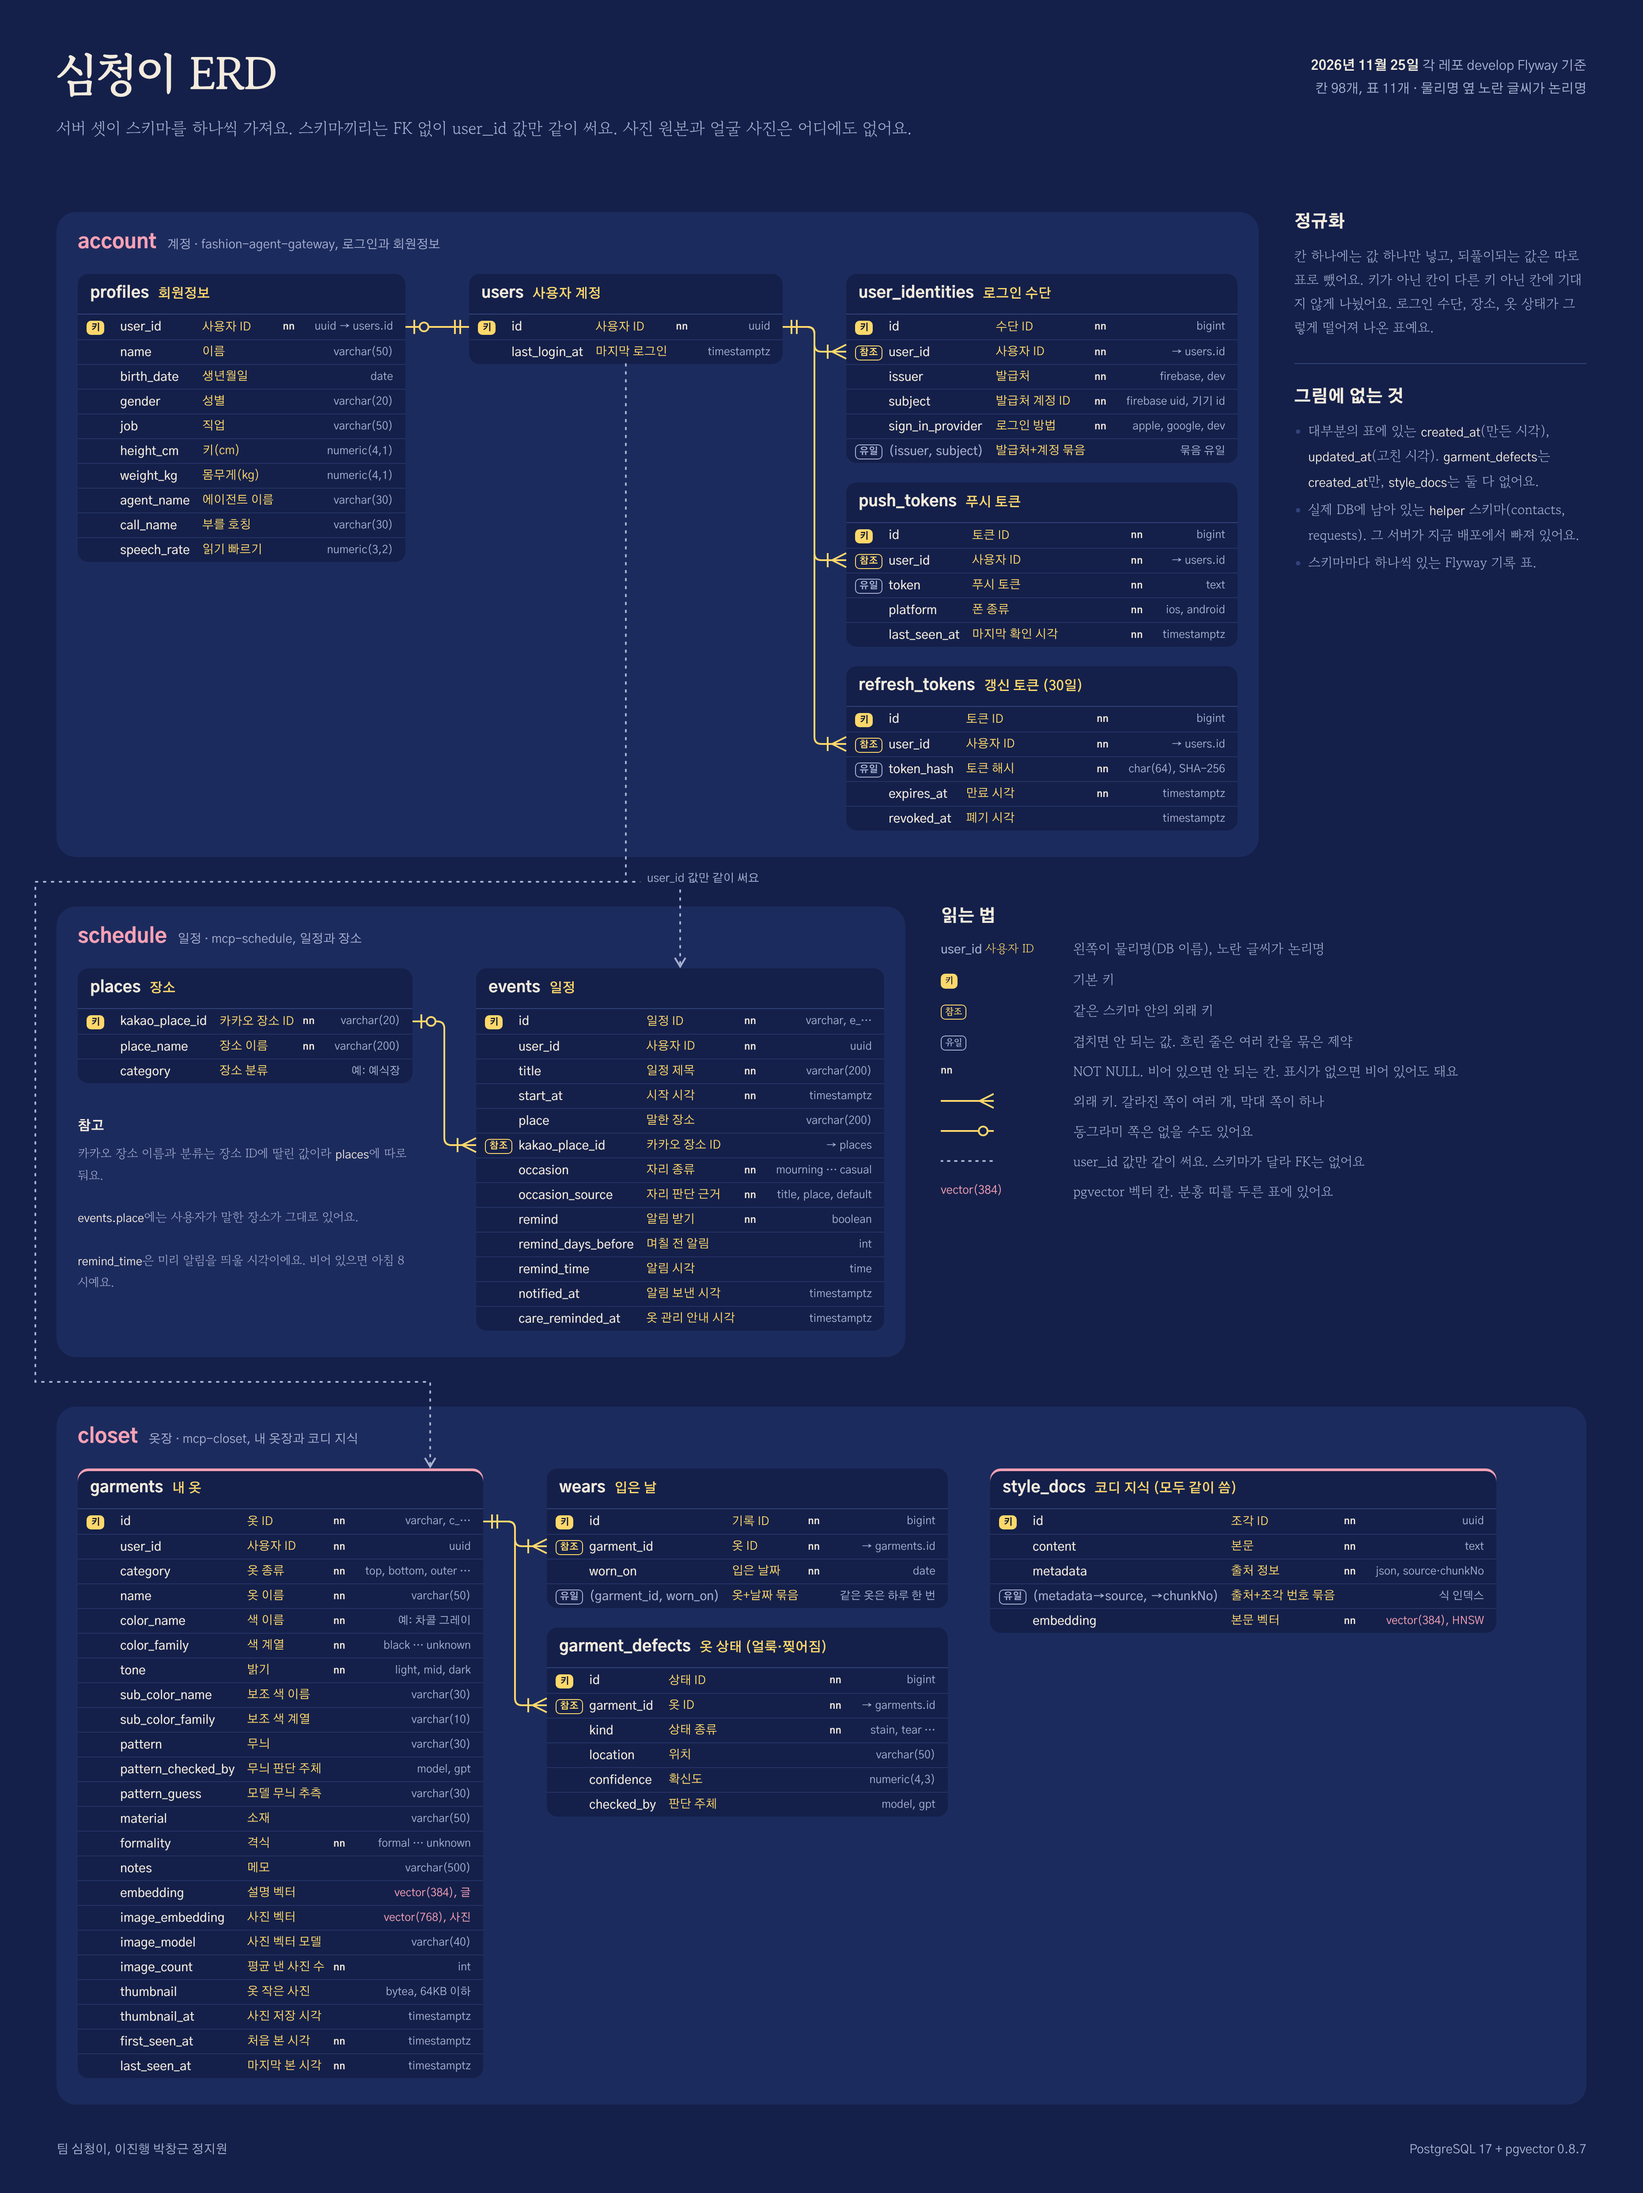
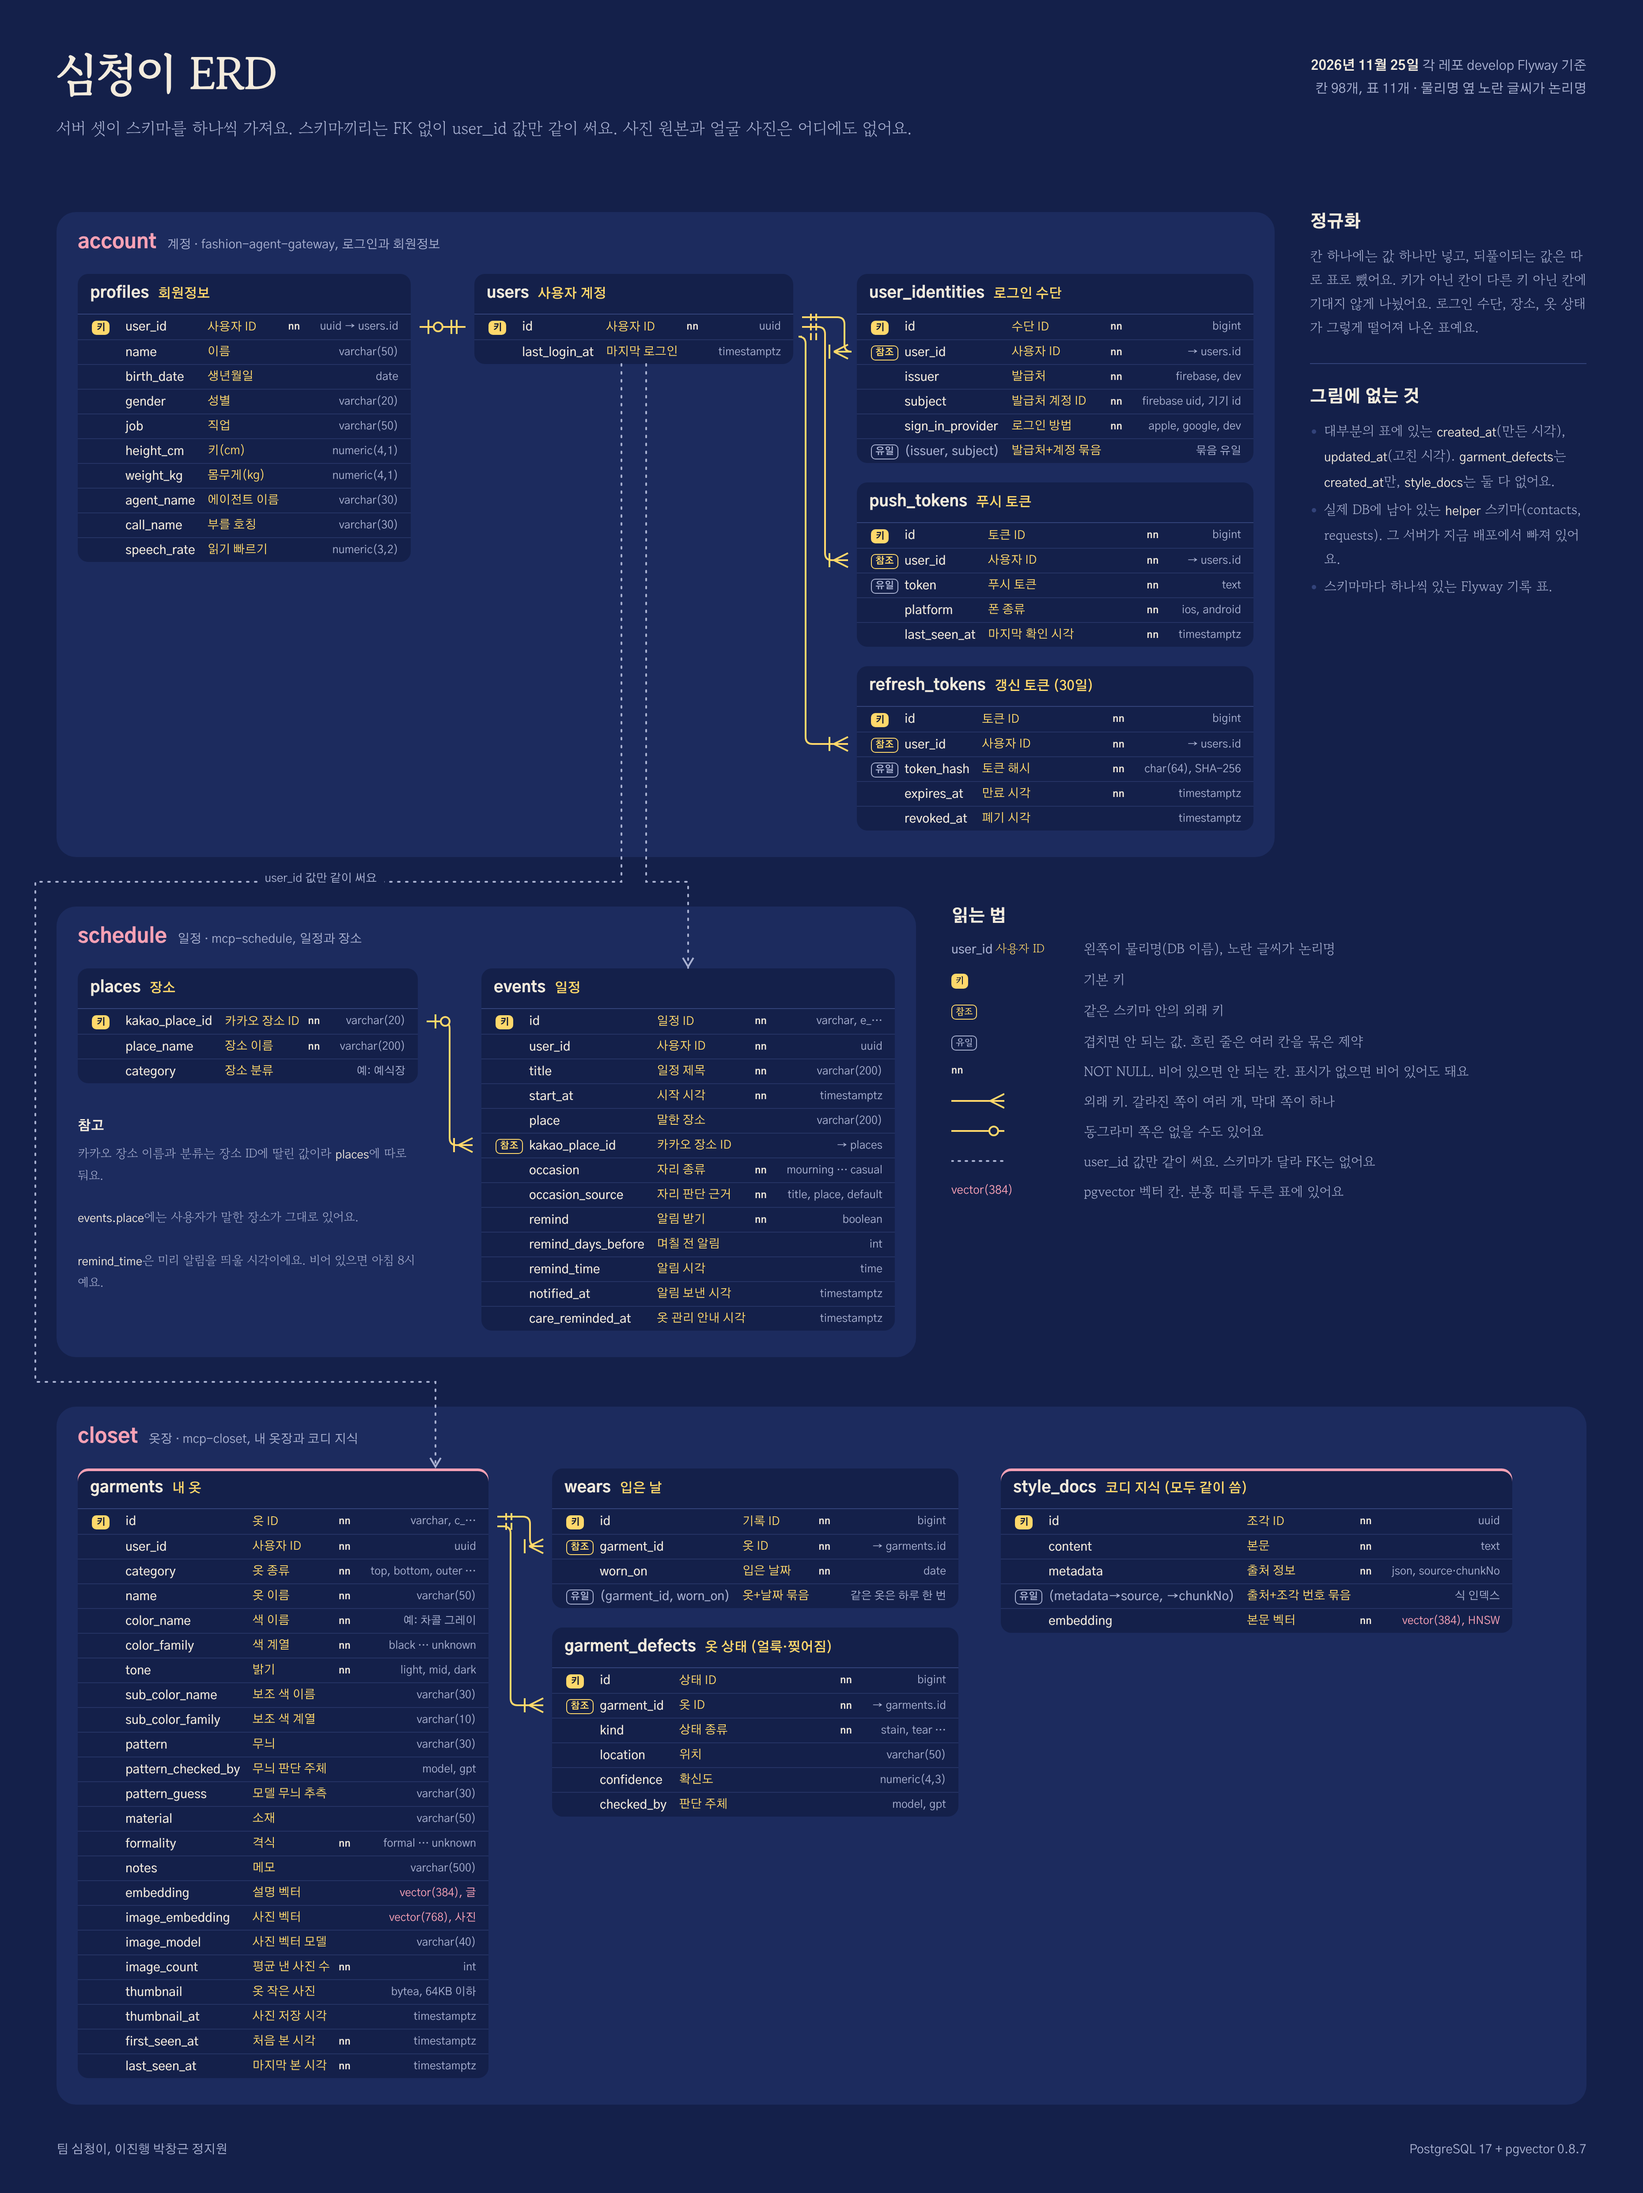
ERD 관계선을 관계마다 따로 그리고, 선 끝을 표에서 떼기
한 선에서 갈라지던 users→3표, garments→2표, user_id 점선을 하나씩 따로. 까마귀발 끝이 참조 표시에 붙어 보이지 않게 표에서 10px 뗌.

Claude-Session: https://claude.ai/code/session_01AaHUvbca1xS4A8MYHeevv3

diff --git a/profile/images/src/erd.html b/profile/images/src/erd.html
@@ -27,7 +27,7 @@ body{width:1860px;font-family:G,sans-serif;color:var(--hanji)}
 .th{display:flex;align-items:baseline;justify-content:space-between;height:46px;padding:0 14px;align-items:center;border-bottom:1px solid var(--line)}
 .th .n{font-size:18px;font-weight:800;color:var(--hanji)}
 .th .d{font-size:12.5px;color:var(--mist)}
-.r{display:flex;align-items:center;height:28px;padding:0 14px 0 10px;font-size:14px}
+.r{display:flex;align-items:center;height:28px;padding:0 14px 0 16px;font-size:14px}
 .r+.r{border-top:1px solid rgba(51,67,122,.55)}
 .k{width:38px;flex:none}
 .k i{display:inline-block;font-style:normal;font-size:10.5px;font-weight:700;line-height:1;padding:3px 5px;border-radius:5px}
@@ -153,7 +153,7 @@ for(const [id,t] of Object.entries(T)){
  const cw=w('.c'), lw=w('.l'), yw=w('.y');
  d.querySelectorAll('.c').forEach(e=>e.style.width=cw+'px'); d.querySelectorAll('.l').forEach(e=>e.style.width=lw+'px'); d.querySelectorAll('.y').forEach(e=>e.style.width=yw+'px');
  const hw=d.querySelector('.th .ln').getBoundingClientRect().width+28;
- d.style.width=Math.ceil(Math.max(10+38+cw+lw+34+yw+14, hw))+'px';
+ d.style.width=Math.ceil(Math.max(16+38+cw+lw+34+yw+14, hw))+'px';
 }
 const W=id=>E[id].getBoundingClientRect().width, H=id=>E[id].getBoundingClientRect().height;
 function put(id,x,y,w){const s=E[id].style; s.left=x+'px'; s.top=y+'px'; if(w) s.width=w+'px'}
@@ -191,38 +191,37 @@ window.__layout={accRight,schRight,closetRight:x+W('styledocs'),pageH};
 const NS='http://www.w3.org/2000/svg';
 function el(n,a){const e=document.createElementNS(NS,n);for(const k in a)e.setAttribute(k,a[k]);svg.appendChild(e);return e}
 function pt(tid,col,side){const r=document.getElementById(tid+'-'+col).getBoundingClientRect(), t=E[tid].getBoundingClientRect();
- return {x: side=='l'?t.left:t.right, y:r.top+r.height/2, d: side=='l'?-1:1}}
+ return {x: side=='l'?t.left-10:t.right+10, y:r.top+r.height/2, d: side=='l'?-1:1}}
 const Y='#FFD86B';
-function end(p,kind){const s=p.d;
+function end(p,kind,hh){const s=p.d; hh=hh||8;
  const Ln=(x1,y1,x2,y2)=>el('line',{x1,y1,x2,y2,stroke:Y,'stroke-width':2});
- if(kind=='one'){Ln(p.x+s*10,p.y-8,p.x+s*10,p.y+8);Ln(p.x+s*16,p.y-8,p.x+s*16,p.y+8)}
- if(kind=='zeroOne'){Ln(p.x+s*10,p.y-8,p.x+s*10,p.y+8);el('circle',{cx:p.x+s*21,cy:p.y,r:5,fill:'#1C2B5E',stroke:Y,'stroke-width':2})}
+ if(kind=='one'){Ln(p.x+s*10,p.y-hh,p.x+s*10,p.y+hh);Ln(p.x+s*16,p.y-hh,p.x+s*16,p.y+hh)}
+ if(kind=='zeroOne'){Ln(p.x+s*10,p.y-hh,p.x+s*10,p.y+hh);el('circle',{cx:p.x+s*21,cy:p.y,r:5,fill:'#1C2B5E',stroke:Y,'stroke-width':2})}
  if(kind=='many'){const b=p.x+s*16;Ln(b,p.y,p.x,p.y-8);Ln(b,p.y,p.x,p.y+8);Ln(b,p.y,p.x,p.y);Ln(p.x+s*21,p.y-8,p.x+s*21,p.y+8)}
 }
-function bus(a,ka,b,kb,X){const r=8, sy=Math.sign(b.y-a.y)||1, sx1=Math.sign(X-a.x), sx2=Math.sign(b.x-X);
+function bus(a,ka,b,kb,X,hh){const r=8, sy=Math.sign(b.y-a.y)||1, sx1=Math.sign(X-a.x), sx2=Math.sign(b.x-X);
  const d= Math.abs(b.y-a.y)<1 ? `M${a.x} ${a.y} H${b.x}` : `M${a.x} ${a.y} H${X-sx1*r} Q${X} ${a.y} ${X} ${a.y+sy*r} V${b.y-sy*r} Q${X} ${b.y} ${X+sx2*r} ${b.y} H${b.x}`;
- el('path',{d,stroke:Y,'stroke-width':2,fill:'none'});end(a,ka);end(b,kb)}
+ el('path',{d,stroke:Y,'stroke-width':2,fill:'none'});end(a,ka,hh);end(b,kb)}
 function rel(a,ka,b,kb){el('path',{d:`M${a.x} ${a.y} H${b.x}`,stroke:Y,'stroke-width':2,fill:'none'});end(a,ka);end(b,kb)}
 const R=id=>E[id].getBoundingClientRect();
 // profiles.user_id 와 users.id 높이가 같도록
 rel(pt('users','id','l'),'one',pt('profiles','user_id','r'),'zeroOne');
-const xA=R('identities').left-G/2;
-bus(pt('users','id','r'),'one',pt('identities','user_id','l'),'many',xA);
-bus(pt('users','id','r'),'one',pt('push','user_id','l'),'many',xA);
-bus(pt('users','id','r'),'one',pt('refresh','user_id','l'),'many',xA);
+// 한 표에서 여러 표로 가는 관계는 선을 하나씩 따로(갈라지지 않게): 나가는 높이와 꺾는 자리를 다르게
+function fan(src,col,targets,X0){const n=targets.length, gap=11, base=pt(src,col,'r');
+ targets.forEach(([tid,tcol],i)=>{const a={...base,y:base.y+(i-(n-1)/2)*gap};
+  const X=X0+(n-1-i)*22-((n-1)*22)/2; bus(a,'one',pt(tid,tcol,'l'),'many',X,4);});}
+fan('users','id',[['identities','user_id'],['push','user_id'],['refresh','user_id']],R('identities').left-G/2);
 bus(pt('places','kakao_place_id','r'),'zeroOne',pt('events','kakao_place_id','l'),'many',R('events').left-G/2);
-const xC=R('wears').left-G/2;
-bus(pt('garments','id','r'),'one',pt('wears','garment_id','l'),'many',xC);
-bus(pt('garments','id','r'),'one',pt('defects','garment_id','l'),'many',xC);
+fan('garments','id',[['wears','garment_id'],['defects','garment_id']],R('wears').left-G/2);
 // 스키마 넘는 user_id (FK 없음)
 const D={stroke:'#A9B1D1','stroke-width':2,fill:'none','stroke-dasharray':'2 7','stroke-linecap':'round'};
 const u=R('users'), ev=R('events'), ga=R('garments');
-const tx=u.left+u.width/2, yAB=y1-28, yBC=y2-28, ex=ev.left+ev.width/2, lx=40, gx=ga.right-60;
-el('path',{...D,d:`M${tx} ${u.bottom} V${yAB} H${ex} V${ev.top}`});
-el('path',{...D,d:`M${tx} ${yAB} H${lx} V${yBC} H${gx} V${ga.top}`});
+const tx=u.left+u.width/2, txE=tx+14, txG=tx-14, yAB=y1-28, yBC=y2-28, ex=ev.left+ev.width/2, lx=40, gx=ga.right-60;
+el('path',{...D,d:`M${txE} ${u.bottom} V${yAB} H${ex} V${ev.top}`});
+el('path',{...D,d:`M${txG} ${u.bottom} V${yAB} H${lx} V${yBC} H${gx} V${ga.top}`});
 const arr=(X,Yt)=>el('path',{d:`M${X-6} ${Yt-12} L${X} ${Yt-2} L${X+6} ${Yt-12}`,stroke:'#A9B1D1','stroke-width':2,fill:'none'});
 arr(ex,ev.top); arr(gx,ga.top);
-const tg=document.createElement('div');tg.className='tag';tg.style.cssText=`left:${tx+16}px;top:${yAB-13}px;color:#A9B1D1;background:var(--sea)`;tg.textContent='user_id 값만 같이 써요';page.appendChild(tg);
+const tg=document.createElement('div');tg.className='tag';tg.style.cssText=`left:${(lx+txG)/2-80}px;top:${yAB-13}px;color:#A9B1D1;background:var(--sea)`;tg.textContent='user_id 값만 같이 써요';page.appendChild(tg);
 window.__done=1;
 });
 </script></body></html>
